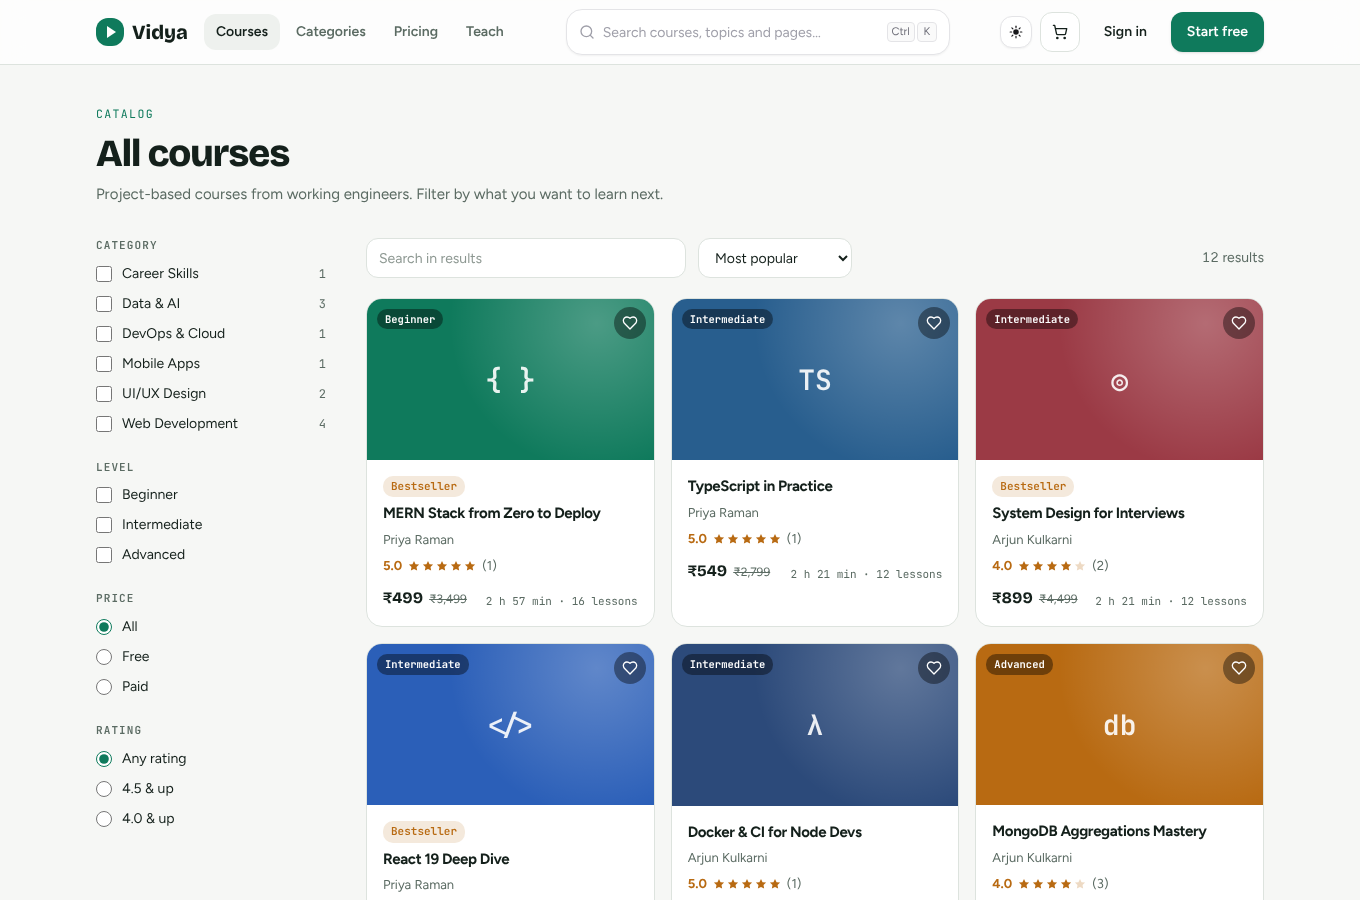
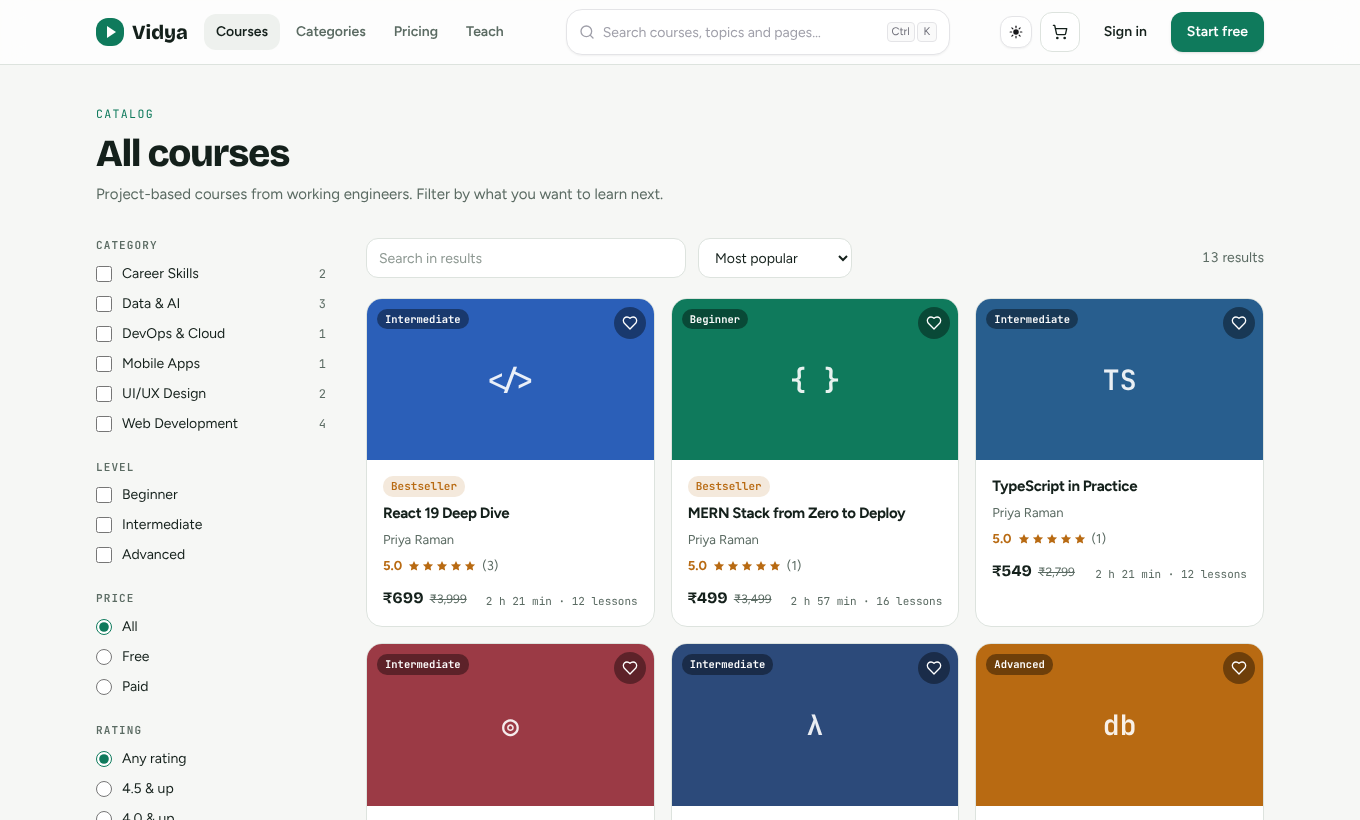
refactor(client): flat minimal visuals and MongoDB Atlas setup guide
- Remove gradients (course thumbnails, charts, auth panel, CTA buttons)
- Move CatalogView from pages to components/course
- Document MongoDB Atlas setup and add an Atlas example to .env.example
- Refresh README screenshots

diff --git a/apps/client/src/components/shared/Charts.jsx b/apps/client/src/components/shared/Charts.jsx
@@ -8,12 +8,6 @@ export function TrendChart({ data, x, y, height = 220, format = compact, prefix 
     <div style={{ height }} className="w-full min-w-0">
       <ResponsiveContainer>
         <AreaChart data={data} margin={{ top: 8, right: 12, left: 0, bottom: 0 }}>
-          <defs>
-            <linearGradient id="trend-fill" x1="0" x2="0" y1="0" y2="1">
-              <stop offset="0%" stopColor="var(--primary)" stopOpacity={0.3} />
-              <stop offset="100%" stopColor="var(--primary)" stopOpacity={0.02} />
-            </linearGradient>
-          </defs>
           <CartesianGrid stroke="var(--border)" strokeDasharray="3 3" vertical={false} />
           <XAxis dataKey={x} tick={{ fill: "var(--muted-foreground)", fontSize: 11 }} tickLine={false} axisLine={false} minTickGap={24} />
           <YAxis tick={{ fill: "var(--muted-foreground)", fontSize: 11 }} tickLine={false} axisLine={false} width={48} tickFormatter={(v) => `${prefix}${format(v)}`} />
@@ -27,7 +21,7 @@ export function TrendChart({ data, x, y, height = 220, format = compact, prefix 
             dataKey={y}
             stroke="var(--primary)"
             strokeWidth={2.2}
-            fill="url(#trend-fill)"
+            fill="var(--primary)" fillOpacity={0.08}
             dot={(p) => (p.index === data.length - 1 ? <circle key="end" cx={p.cx} cy={p.cy} r={4.5} fill="var(--primary)" stroke="var(--card)" strokeWidth={2} /> : null)}
             activeDot={{ r: 4 }}
           />

diff --git a/apps/client/src/pages/public/Teach.jsx b/apps/client/src/pages/public/Teach.jsx
@@ -1,5 +1,4 @@
 import { Link, useNavigate } from "react-router";
-import GradientButton from "@/components/kokonut/gradient-button";
 import { Button, Kpi } from "@/components/ui";
 import { useAuth } from "@/store/auth";
 import { useTitle } from "@/hooks/useTitle";
@@ -24,7 +23,7 @@ export default function Teach() {
           <h1 className="text-[clamp(2.2rem,5vw,3.4rem)] font-extrabold leading-[1.05]">Turn what you know into <span className="text-primary">a course people finish</span>.</h1>
           <p className="text-lg text-muted-foreground">Plan, record and publish with the studio. We handle payments, hosting, certificates and support.</p>
           <div className="flex flex-wrap gap-3">
-            <GradientButton variant="emerald" label="Start your first course" onClick={start} />
+            <Button size="lg" onClick={start}>Start your first course</Button>
             {user?.role !== "student" && user && <Button variant="outline" size="lg" asChild><Link to="/studio">Open studio</Link></Button>}
           </div>
           {user?.role === "student" && <p className="text-sm text-muted-foreground">Signed in as a learner. Contact us to switch your account to an instructor account.</p>}

diff --git a/apps/client/src/pages/public/Home.jsx b/apps/client/src/pages/public/Home.jsx
@@ -5,7 +5,6 @@ import { motion } from "motion/react";
 import { ArrowRight, BadgeCheck, Code2, Gauge, Search } from "lucide-react";
 import BackgroundPaths from "@/components/kokonut/background-paths";
 import TypewriterTitle from "@/components/kokonut/type-writer";
-import GradientButton from "@/components/kokonut/gradient-button";
 import { Avatar, Badge, Button, Progress, Stars } from "@/components/ui";
 import { CourseGrid } from "@/components/course/CourseCard";
 import { get } from "@/lib/api";
@@ -238,7 +237,7 @@ export default function Home() {
             <h2 className="text-3xl font-bold">Teach what you know</h2>
             <p className="max-w-[52ch] opacity-75">Keep 70% of every sale. We handle payments, video hosting and certificates.</p>
           </div>
-          <GradientButton variant="emerald" onClick={() => navigate("/teach")} label="Become an instructor" />
+          <Button size="lg" onClick={() => navigate("/teach")}>Become an instructor</Button>
         </div>
       </section>
     </div>

diff --git a/apps/client/src/components/layout/AuthShell.jsx b/apps/client/src/components/layout/AuthShell.jsx
@@ -8,7 +8,6 @@ export default function AuthShell({ children, quote = "Finished my first full co
   return (
     <div className="grid min-h-dvh lg:grid-cols-2">
       <aside className="relative hidden overflow-hidden bg-ink p-10 text-ink-foreground lg:grid lg:content-between">
-        <span aria-hidden className="pointer-events-none absolute -right-32 -top-32 size-[28rem] rounded-full bg-primary/25 blur-3xl" />
         <Logo inverted className="relative text-ink-foreground" />
         <figure className="relative grid gap-4">
           <blockquote className="font-display text-[clamp(1.5rem,2.4vw,2rem)] font-semibold leading-snug">“{quote}”</blockquote>

diff --git a/apps/client/src/components/course/CourseThumb.jsx b/apps/client/src/components/course/CourseThumb.jsx
@@ -12,7 +12,6 @@ export default function CourseThumb({ course, className, children, large }) {
         <img src={assetUrl(course.thumbnail)} alt="" loading="lazy" className="absolute inset-0 size-full object-cover" />
       ) : (
         <>
-          <span className="absolute inset-0 bg-[radial-gradient(circle_at_80%_15%,rgba(255,255,255,.25),transparent_55%)]" />
           <span
             className={cn("relative font-mono font-semibold text-white/90", large ? "text-5xl" : "text-[28px]")}
             aria-hidden

diff --git a/apps/client/src/pages/public/Category.jsx b/apps/client/src/pages/public/Category.jsx
@@ -4,7 +4,7 @@ import { PageHeader, Skeleton } from "@/components/ui";
 import { cn } from "@/lib/utils";
 import { get } from "@/lib/api";
 import { useTitle } from "@/hooks/useTitle";
-import CatalogView from "./CatalogView";
+import CatalogView from "@/components/course/CatalogView";
 import NotFound from "./NotFound";
 
 export default function Category() {

diff --git a/apps/client/src/pages/public/Catalog.jsx b/apps/client/src/pages/public/Catalog.jsx
@@ -1,6 +1,6 @@
 import { PageHeader } from "@/components/ui";
 import { useTitle } from "@/hooks/useTitle";
-import CatalogView from "./CatalogView";
+import CatalogView from "@/components/course/CatalogView";
 
 export default function Catalog() {
   useTitle("All courses");

diff --git a/README.md b/README.md
@@ -102,7 +102,17 @@ npm run seed
 npm run dev
 ```
 
-No MongoDB installed? Start one with Docker: `docker run -d -p 27017:27017 mongo:7`.
+No MongoDB installed? Use free **MongoDB Atlas** (below) or Docker: `docker run -d -p 27017:27017 mongo:7`.
+
+### Using MongoDB Atlas (free M0 cluster)
+
+1. In Atlas, create a project (e.g. `vidya-lms`), then **Create cluster → M0 Free**, pick a region near you (Mumbai `ap-south-1`).
+2. **Database Access → Add user** with a username and a generated password, role *Read and write to any database*.
+3. **Network Access → Add IP address**: your current IP for development (add your host's IPs or `0.0.0.0/0` when deploying).
+4. **Connect → Drivers → Node.js** and copy the `mongodb+srv://…` string.
+5. Put it in `apps/server/.env`, adding the database name before the `?`:
+   `MONGO_URI=mongodb+srv://USER:PASSWORD@cluster0.xxxxx.mongodb.net/vidya?retryWrites=true&w=majority`
+6. `npm run seed` then `npm run dev`. Collections appear under the `vidya` database in **Browse Collections**.
 
 Optional integrations, all off by default so the app runs with zero accounts:
 
@@ -137,7 +147,7 @@ vidya-lms/
 │  │     │  ├─ ui/            design-system primitives (Button, Field, Modal, DataTable…)
 │  │     │  ├─ kokonut/       Kokonut UI components (MIT)
 │  │     │  ├─ layout/        navbar, app shell, auth shell, search palette
-│  │     │  ├─ course/        course card, thumbnail, price
+│  │     │  ├─ course/        course card, catalog view, thumbnail, price
 │  │     │  ├─ player/        video player, curriculum, lesson tabs
 │  │     │  └─ studio/        curriculum builder, lesson editor, upload adapter
 │  │     ├─ features/         auth session, cart, notifications, certificates
@@ -199,7 +209,7 @@ docker compose exec api node apps/server/src/seed/index.js   # optional demo dat
 
 ## Credits
 
-- UI components from [Kokonut UI](https://kokonutui.com) by @dorianbaffier (MIT): ActionSearchBar, BackgroundPaths, CardFlip, FileUpload, GradientButton, HoldButton, Loader, MetricCard, ParticleButton, ProfileDropdown, SwitchButton and Typewriter. Their license is kept in `apps/client/src/components/kokonut/LICENSE`.
+- UI components from [Kokonut UI](https://kokonutui.com) by @dorianbaffier (MIT): ActionSearchBar, BackgroundPaths, CardFlip, FileUpload, HoldButton, Loader, MetricCard, ParticleButton, ProfileDropdown, SwitchButton and Typewriter. Their license is kept in `apps/client/src/components/kokonut/LICENSE`.
 - Sample lesson videos from Google's public test-video bucket (Blender Foundation films, CC-BY).
 
 ## License
